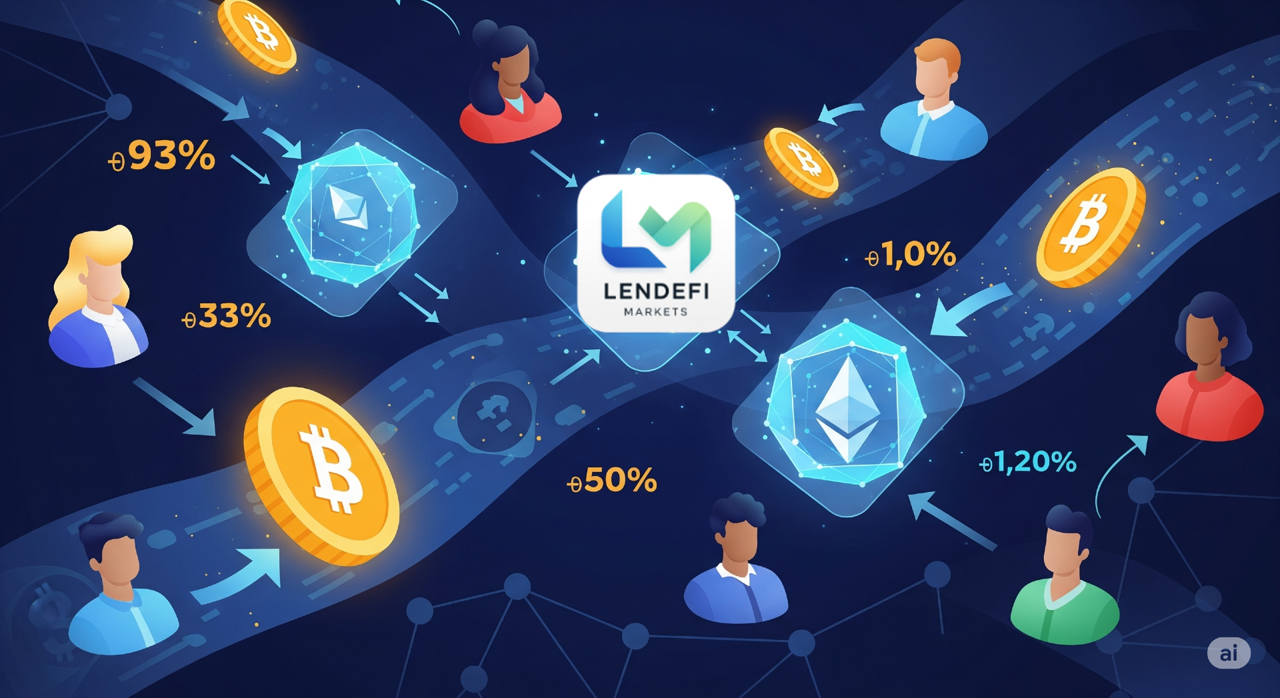
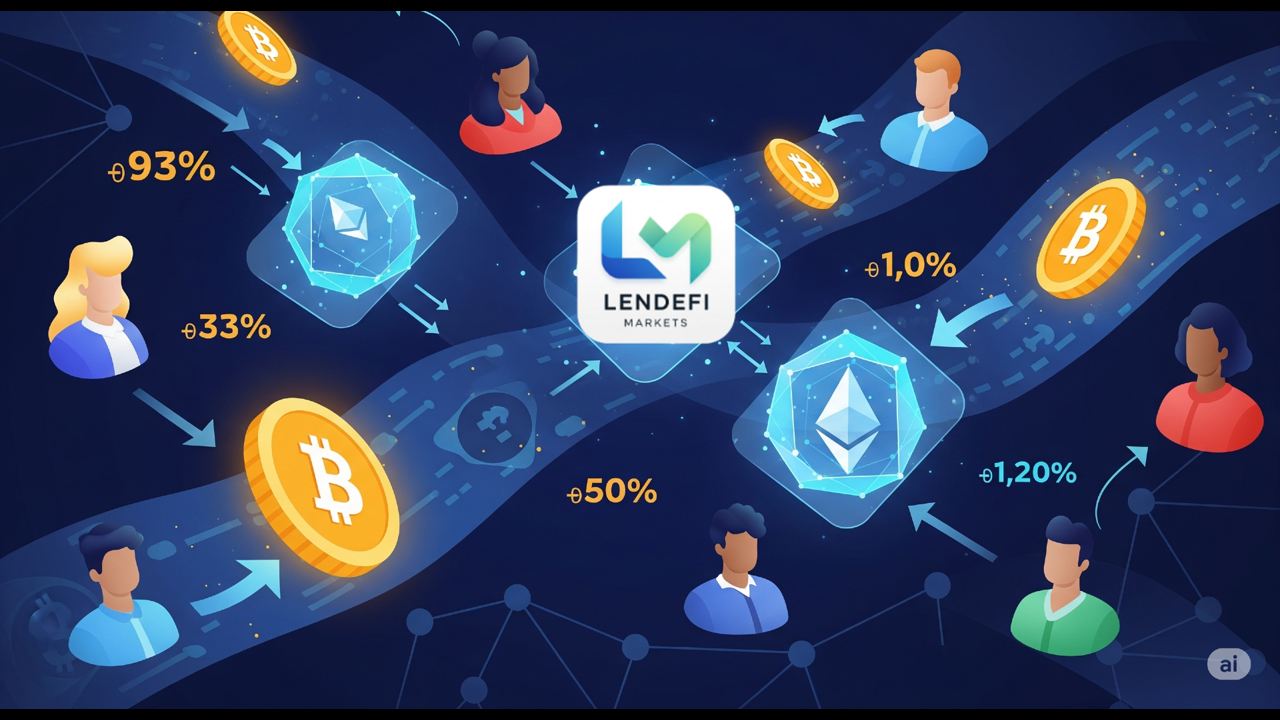
Resize all blog images to 720p (1280x720) and add Robinhood post
- Resized 28 blog images to standard 720p resolution
- Added new Robinhood crypto integration blog post
- Ensured consistent image dimensions across all blog posts

🤖 Generated with [Claude Code](https://claude.ai/code)

diff --git a/src/blog/posts/robinhood.md b/src/blog/posts/robinhood.md
@@ -1,0 +1,198 @@
+---
+title: "The Democratizer: How Vlad Tenev Transformed Wall Street Through a Smartphone Screen"
+date: "2025-06-28"
+excerpt: "From Bulgarian immigrant to billionaire CEO, Vladimir Tenev's journey from Stanford mathematician to Robinhood founder illustrates how technological disruption can democratize entire industries—transforming how millions of Americans access financial markets through zero-commission trading and mobile-first design."
+image: "/assets/images/blog/robinhood.png"
+tags: ["Fintech", "Entrepreneurship", "Democratization", "Trading"]
+author: "Lendefi Research Team"
+---
+
+# The Democratizer: How Vlad Tenev Transformed Wall Street Through a Smartphone Screen
+
+In the winter of 2008, as [Lehman Brothers](https://en.wikipedia.org/wiki/Lehman_Brothers) collapsed and financial markets convulsed in the worst crisis since the Great Depression, two Stanford mathematics graduates watched the unfolding chaos with fascination rather than fear. While most observers saw destruction, Vladimir Tenev and Baiju Bhatt glimpsed opportunity—not in the markets themselves, but in the infrastructure that connected everyday people to those markets.
+
+Thirteen years later, the company they would eventually build, [Robinhood](https://robinhood.com/), would process over $2 trillion in trading volume and serve more than 22 million users, fundamentally reshaping how Americans invest. From a Bulgarian immigrant's son who dismantled his first computer at age five to the CEO who survived a congressional grilling over the [GameStop](https://www.gamestop.com/) trading frenzy, Tenev's journey illustrates how technological disruption combined with populist mission can democratize entire industries—even when that democratization comes with unprecedented controversy and responsibility.
+
+## From Communist Bulgaria to Silicon Valley Dreams
+
+Vladimir Tenev's story begins in [Varna](https://en.wikipedia.org/wiki/Varna), Bulgaria, a coastal city on the Black Sea where he was born on February 13, 1987. His father, a professor of economics, witnessed firsthand the transition as communist rule gave way to democratic reform. When the [Berlin Wall](https://en.wikipedia.org/wiki/Berlin_Wall) fell and Eastern Europe opened to the world, Tenev's parents seized the opportunity for a better life, immigrating to the United States when Vladimir was just five years old.
+
+Both parents found work at the [World Bank](https://www.worldbank.org/) in Washington, D.C., joining the international development community that would expose young Vladimir to global perspectives on economics and finance. Growing up in Northern Virginia, he attended [Thomas Jefferson High School for Science and Technology](https://tjhsst.fcps.edu/), one of America's most prestigious STEM-focused high schools, where future entrepreneurs, scientists, and engineers honed their analytical thinking.
+
+The immigrant experience shaped Tenev's worldview in fundamental ways. Having seen his parents rebuild their lives in a new country, he understood both the barriers that prevent people from accessing opportunities and the transformative power of removing those barriers. This perspective would later manifest in Robinhood's mission to "democratize finance for all"—making investment tools accessible to anyone with a smartphone rather than just those with traditional wealth and connections.
+
+At Thomas Jefferson, Tenev demonstrated the mathematical aptitude that would define his approach to entrepreneurship. Rather than viewing business challenges through pure intuition, he approached problems systematically, using quantitative analysis to identify inefficiencies and design solutions. This methodology would prove essential as he entered the complex world of financial technology.
+
+## Stanford Foundations and the Power of Partnership
+
+In 2005, Tenev arrived at [Stanford University](https://www.stanford.edu/) to study mathematics, joining one of the world's premier breeding grounds for technological innovation. Silicon Valley's entrepreneurial culture permeated campus life, where students regularly left classrooms to found companies that would reshape global industries. It was here that Tenev met Baiju Bhatt, a physics major from Virginia whose father worked at [NASA](https://www.nasa.gov/)'s Langley Research Center.
+
+The friendship that formed between Tenev and Bhatt exemplified the power of complementary skills in entrepreneurship. Tenev brought deep mathematical knowledge and systematic thinking, while Bhatt contributed physics-based problem-solving and design sensibility. Both shared immigrant family backgrounds—Bhatt's parents had immigrated from India—creating common ground around the American dream and the barriers that prevent people from achieving it.
+
+Their academic paths initially diverged after completing master's degrees in mathematics in 2008. Tenev pursued a PhD at [UCLA](https://www.ucla.edu/), diving deeper into mathematical theory, while Bhatt joined the workforce at a trading firm. However, the financial crisis that was unfolding would soon bring them back together with a shared vision of entrepreneurial opportunity.
+
+"It was a very, very interesting time for the industry," Tenev later reflected on those tumultuous months. As traditional financial institutions crumbled and government bailouts sparked public outrage, the two friends recognized that crisis often creates space for innovation. The same technological forces disrupting media, retail, and communications could potentially transform finance—if someone could figure out how to bridge the gap between sophisticated financial infrastructure and consumer accessibility.
+
+## The High-Frequency Trading Laboratory
+
+Convinced by Bhatt that entrepreneurship offered more immediate impact than academic research, Tenev made the difficult decision to drop out of his UCLA PhD program. In 2010, the partners founded their first company, Celeris, focused on high-frequency trading software. The venture provided crucial education in both the technical complexities of financial markets and the realities of building technology companies.
+
+High-frequency trading represented the cutting edge of financial technology, where microseconds could determine profitability and algorithmic sophistication separated winners from losers. Celeris aimed to provide software that could shave precious milliseconds off trade execution times, potentially generating millions in additional profits for institutional clients. The work required deep understanding of market microstructure, computer networking, and algorithmic optimization.
+
+However, Celeris struggled to gain traction in a market dominated by established players with vast resources and regulatory relationships. By January 2011, Tenev and Bhatt had pivoted to a new venture, [Chronos Research](https://en.wikipedia.org/wiki/Chronos_Research), which sold low-latency software to trading firms and banks. This business model proved more viable, generating revenue while teaching the founders about institutional client needs and market infrastructure.
+
+The high-frequency trading experience provided essential preparation for what would come next. Tenev and Bhatt learned how financial markets actually functioned beneath their public interfaces—the complex web of exchanges, market makers, clearinghouses, and regulatory requirements that enable trades to occur. More importantly, they discovered the massive cost disparities between institutional and retail trading, where large firms paid fractions of pennies per share while individual investors faced commissions of $7-10 per trade.
+
+## The Occupy Wall Street Revelation
+
+The revelation that would ultimately inspire Robinhood came not from technical analysis but from social observation. In September 2011, as [Occupy Wall Street](https://en.wikipedia.org/wiki/Occupy_Wall_Street) protesters filled Zuccotti Park demanding economic justice, Tenev and Bhatt watched from their New York offices with growing conviction that technology could address some of the movement's core concerns.
+
+The protesters' grievances centered on financial inequality—the perception that sophisticated tools and preferential treatment were available only to wealthy institutions while ordinary Americans faced barriers to building wealth through investing. The "99% vs. 1%" narrative resonated with Tenev's immigrant experience and Bhatt's engineering sensibility that elegant solutions should be accessible to everyone.
+
+"The public distrust of the financial sector had been growing for some years and in 2011 it boiled over," Tenev later explained. The Occupy movement crystallized their thinking about what they could "build something meaningful and something that empowered consumers." Rather than merely profiting from market inefficiencies, they could eliminate some of those inefficiencies entirely.
+
+The insight was both simple and revolutionary: if technology could make high-frequency trading profitable at fractions of pennies per share, the same technology could make retail trading profitable at zero commission. The key was understanding that retail order flow itself had value that could support a different business model. Instead of charging investors directly, a platform could monetize their trades through [payment for order flow](https://www.investopedia.com/terms/p/paymentoforderflow.asp) arrangements with market makers.
+
+## Building Robinhood: Technology Meets Mission
+
+In 2013, Tenev and Bhatt officially launched Robinhood with an audacious goal: eliminate commission fees on stock trades while making investing as intuitive as using social media. The name deliberately evoked the legendary outlaw who "took from the rich and gave to the poor," reflecting their mission to redistribute access to financial tools rather than wealth itself.
+
+The technical challenges were immense. Building a secure, reliable trading platform required integration with multiple exchanges, clearinghouses, and regulatory systems while maintaining the speed and reliability that users expected from consumer applications. Unlike established brokerages that could afford technological glitches due to high commission revenue, Robinhood's zero-fee model demanded near-perfect execution from day one.
+
+The user interface represented perhaps their most significant innovation. While traditional brokerage platforms resembled complex dashboards designed for professional traders, Robinhood's app felt like a social media platform. Clean design, intuitive gestures, and immediate feedback created an experience that encouraged exploration rather than intimidation. Features like fractional shares meant users could invest as little as $1 in expensive stocks, removing another barrier to market participation.
+
+However, building the platform was only half the challenge. The regulatory approval process required extensive documentation, compliance reviews, and capital requirements that nearly exhausted their resources. For over a year, Robinhood operated as little more than a waitlist, collecting email addresses from potential users while satisfying [FINRA](https://www.finra.org/) and [SEC](https://www.sec.gov/) requirements.
+
+The waitlist itself became a marketing tool, generating anticipation and social proof that traditional brokerages had never achieved. By the time Robinhood launched its mobile app in March 2015, hundreds of thousands of users were ready to begin trading immediately. The pent-up demand validated their thesis that commission fees had indeed prevented millions of Americans from participating in the stock market.
+
+## Explosive Growth and Cultural Impact
+
+Robinhood's launch coincided with several trends that accelerated adoption beyond even optimistic projections. Smartphone penetration reached critical mass just as millennials entered their peak earning years, creating a generation of digitally native potential investors. Low interest rates made traditional savings accounts unattractive while rising stock markets created FOMO among young adults watching friends profit from investments.
+
+The platform's gamification elements—push notifications about market movements, confetti animations celebrating trades, and social features showing popular stocks—tapped into psychological drivers that traditional brokerages had ignored. Critics would later argue these features encouraged excessive trading, but they undeniably made investing feel accessible and engaging to users who had never considered opening brokerage accounts.
+
+User growth exploded from the launch, particularly during market volatility that traditionally drove retail investors away from stocks. The 2016 election, Brexit uncertainty, and various market corrections all drove new account openings as users sought to capitalize on or hedge against political and economic uncertainty. By 2018, Robinhood had attracted over 4 million users and achieved a $6 billion valuation, making both Tenev and Bhatt billionaires on paper.
+
+The cultural impact extended far beyond user numbers. Robinhood's success forced established brokerages to eliminate their own commission fees, saving all retail investors billions of dollars annually. [Charles Schwab](https://www.schwab.com/), [Fidelity](https://www.fidelity.com/), [TD Ameritrade](https://www.tdameritrade.com/), and other major firms scrambled to match Robinhood's pricing while trying to differentiate through service quality and product breadth.
+
+More significantly, Robinhood democratized financial discussions among younger Americans. The platform's social features and mobile-first design encouraged users to share investment ideas, creating organic communities around stock analysis and market commentary. This cultural shift would prove crucial during the events of early 2021.
+
+## The GameStop Crucible: Crisis and Congressional Scrutiny
+
+The defining moment of Tenev's leadership came not during Robinhood's growth phase but during the [GameStop short squeeze](https://en.wikipedia.org/wiki/GameStop_short_squeeze) of January 2021. What began as an investment thesis shared on [Reddit](https://www.reddit.com/)'s r/WallStreetBets forum evolved into a populist movement that pitted retail investors against hedge funds, with Robinhood caught in the middle.
+
+The sequence of events unfolded with unprecedented speed and scale. Retail investors, many using Robinhood, coordinated purchases of heavily shorted stocks like GameStop, [AMC](https://www.amctheatres.com/), and others, driving prices to levels that threatened major hedge funds with billions in losses. [Melvin Capital](https://en.wikipedia.org/wiki/Melvin_Capital), in particular, faced potential bankruptcy due to its GameStop short position.
+
+On January 28, 2021, as GameStop's stock price soared past $400 per share, Robinhood made the controversial decision to halt buying of GameStop and several other volatile stocks. Users could sell their positions but not purchase additional shares, a restriction that immediately drew accusations of market manipulation and conspiracy with Wall Street interests. The decision sparked bipartisan outrage from politicians as diverse as [Alexandria Ocasio-Cortez](https://ocasio-cortez.house.gov/) and [Ted Cruz](https://www.cruz.senate.gov/).
+
+Tenev's initial explanations proved inadequate to calm the furor. His early statements focused on technical requirements from clearinghouses without adequately addressing user concerns about fairness and transparency. Social media erupted with conspiracy theories about collusion between Robinhood and [Citadel Securities](https://www.citadelsecurities.com/), the market maker that handled much of Robinhood's order flow and had invested in Melvin Capital.
+
+The crisis deepened when Robinhood was forced to raise $3.4 billion in emergency funding to meet clearinghouse collateral requirements, revealing the financial stress the platform faced during extreme market volatility. Users felt betrayed by a company that had promised to democratize finance but seemingly prioritized institutional relationships over retail investor interests.
+
+## Congressional Testimony and Leadership Under Fire
+
+On February 18, 2021, Tenev faced his greatest test as CEO when he testified before the [House Committee on Financial Services](https://financialservices.house.gov/) in a hearing entitled "Game Stopped? Who Wins and Loses When Short Sellers, Social Media, and Retail Investors Collide." The virtual hearing, watched by millions, would determine whether Robinhood could survive the reputational damage from the GameStop controversy.
+
+Tenev's testimony attempted to explain the complex technical requirements that forced trading restrictions while maintaining that Robinhood had acted in users' best interests. He revealed that the company faced a $3 billion collateral demand from the [Depository Trust & Clearing Corporation](https://www.dtcc.com/) on the morning of January 28, which was later negotiated down to $1.4 billion after trading restrictions were implemented.
+
+The questioning proved hostile from both Democratic and Republican committee members. Democrats like Chairwoman [Maxine Waters](https://waters.house.gov/) focused on payment for order flow arrangements and potential conflicts of interest, while Republicans emphasized free market principles and criticized any restrictions on retail trading. Tenev struggled with some technical questions and faced criticism for his young company's handling of such a complex crisis.
+
+Perhaps most damaging was the revelation that Robinhood employees may have traded the affected stocks before imposing restrictions, raising questions about insider trading and company culture. The [FBI](https://www.fbi.gov/) and other agencies launched investigations, including executing a search warrant for Tenev's personal cell phone as part of their probe.
+
+Despite the intense scrutiny, Tenev's calm demeanor and technical explanations gradually won some credibility with observers who recognized the genuine operational challenges facing his platform. More importantly, user behavior suggested that most customers blamed the system rather than Robinhood specifically—account openings actually accelerated after the controversy as new users sought to participate in the continuing market volatility.
+
+## IPO Triumph and Ongoing Challenges
+
+Just months after facing congressional scrutiny, Robinhood achieved a major milestone by going public in July 2021. The [IPO](https://www.investopedia.com/terms/i/ipo.asp) priced at $38 per share, valuing the company at $32 billion and raising approximately $2 billion. The offering was notable for reserving 20-35% of shares for Robinhood's own users, the largest retail allocation in IPO history.
+
+The public debut proved rocky, with shares falling over 8% on the first day of trading as investors questioned the company's valuation and long-term prospects. At $38, Robinhood traded at over 35 times revenue, significantly higher than traditional brokerages like Charles Schwab (8x) or [Interactive Brokers](https://www.interactivebrokers.com/) (3x). Critics argued the valuation reflected unsustainable pandemic-era trading activity rather than fundamental business strength.
+
+However, the IPO marked Robinhood's transition from startup to established financial institution, providing capital for expansion and regulatory compliance. The company began international expansion, added [cryptocurrency](https://robinhood.com/crypto/) trading capabilities, and developed additional financial products like [cash management accounts](https://robinhood.com/cash-management/) and [retirement accounts](https://robinhood.com/us/en/about/retirement/).
+
+The post-IPO period brought new challenges as trading volumes normalized from pandemic highs and competitive pressure intensified. Robinhood's revenue declined significantly from 2021 peaks, forcing workforce reductions and strategic refocusing. Tenev acknowledged these difficulties in a company-wide memo, noting that rapid growth had created "duplicate roles and job functions, and more layers and complexity than are optimal."
+
+## Mathematical Superintelligence: The Harmonic Venture
+
+In 2023, even as he continued leading Robinhood through post-pandemic normalization, Tenev launched an entirely separate venture that revealed his long-term intellectual interests. [Harmonic](https://harmonic.fun/), co-founded with Tudor Achim, aims to develop "Mathematical Superintelligence"—AI systems with mathematical reasoning capabilities greater than any human.
+
+The Harmonic project reflects Tenev's belief that mathematics provides a foundation for eliminating AI hallucinations through formal verification. Using the [Lean](https://leanprover.github.io/) programming language, Harmonic's systems can verify the accuracy of mathematical proofs, achieving an 83% success rate on challenging benchmarks. The company's [Aristotle](https://harmonic.fun/aristotle) system represents a significant advancement in formal mathematics AI.
+
+"As artificial intelligence systems continue to grow in scale and become an integral part of our daily lives, it's critical the next generation of models are truthful," Tenev explained. "MSI is based on mathematics, which provides a guaranteed basis for accuracy and therefore eliminates the hallucinations found in other AI systems."
+
+The venture attracted significant investment from [Sequoia Capital](https://www.sequoiacap.com/) and [Index Ventures](https://www.indexventures.com/), validating Tenev's vision that mathematical reasoning could unlock artificial general intelligence. Unlike large language models that reflect internet biases and inaccuracies, mathematical systems can provide verifiable truth through formal proofs.
+
+Harmonic's mission extends beyond pure research to practical applications in software engineering, industrial design, and medical technology—areas where accuracy is paramount. The company represents Tenev's attempt to solve fundamental problems in AI development while maintaining his operational focus on Robinhood's evolution.
+
+## The Wealth Management Evolution
+
+While pursuing mathematical superintelligence, Tenev also drove Robinhood's expansion into comprehensive financial services. In March 2025, the company announced a suite of new products designed to compete with traditional wealth management firms: [Robinhood Strategies](https://robinhood.com/strategies), [Robinhood Banking](https://robinhood.com/banking), and [Robinhood Cortex](https://robinhood.com/cortex).
+
+Robinhood Strategies offers professionally managed portfolios with zero management fees on balances over $100,000 for [Gold](https://robinhood.com/gold/) subscribers—a direct challenge to traditional advisory fees that scale with assets. The service provides institutional-quality portfolio management at retail prices, continuing Robinhood's democratization mission into wealth management.
+
+Robinhood Banking targets high-net-worth individuals with services traditionally reserved for private banks: estate planning, tax advice, and exclusive perks like access to the [Met Gala](https://www.metmuseum.org/about-the-met/press-room/news/2023/met-gala-2023), [Oscars](https://www.oscars.org/), and private jet travel. The 4% annual percentage yield on cash accounts significantly exceeds traditional savings rates, funded by the company's scale and efficiency advantages.
+
+Robinhood Cortex represents the company's entry into AI-powered investment tools, providing real-time market analysis and trade recommendations exclusively for Gold subscribers. Features like Stock Digests and Trade Builder use artificial intelligence to democratize the analytical capabilities previously available only to institutional investors.
+
+These expansions reflect Tenev's long-term vision of Robinhood as a comprehensive financial platform rather than just a trading app. "Our goal is for Robinhood to give you a world-class financial team in your pocket, with cutting-edge tools you can't find elsewhere," he explained. The strategy aims to increase revenue per user while expanding the total addressable market beyond active traders to all consumers seeking financial services.
+
+## Regulatory Evolution and Industry Impact
+
+Throughout Robinhood's growth, Tenev has navigated an increasingly complex regulatory environment while advocating for modernized financial oversight. The company has faced various fines and settlements, including a $57 million [FINRA](https://www.finra.org/) penalty and multiple state regulatory actions, but has generally maintained good relationships with regulators through transparency and compliance investments.
+
+The payment for order flow model that enables Robinhood's zero-commission trading has faced particular scrutiny from regulators concerned about potential conflicts of interest. However, academic research has generally validated that retail investors receive better execution through PFOF arrangements than through traditional commission models, supporting Robinhood's defense of the practice.
+
+Tenev has argued that regulatory frameworks should focus on outcomes rather than business models, emphasizing that Robinhood's innovations have saved retail investors billions in commission fees while improving market access. The company's transparent pricing and execution quality metrics demonstrate commitment to fair treatment despite the complex business model.
+
+The broader industry impact of Robinhood's success extends far beyond commission elimination. The platform's mobile-first design, social features, and democratized access have influenced virtually every major financial institution's digital strategy. Traditional brokerages have invested billions in user experience improvements while fintech startups pursue various market segments using similar approaches.
+
+## Current Challenges and Future Opportunities
+
+As of 2025, Robinhood faces the challenge of maintaining growth momentum while expanding beyond its core trading platform. User engagement has normalized from pandemic peaks as market volatility declined and alternative entertainment options resumed. The company must demonstrate that its expanded financial services can generate sustainable revenue growth independent of trading activity cycles.
+
+Competition has intensified from both traditional institutions and fintech startups. [SoFi](https://www.sofi.com/), [Webull](https://www.webull.com/), and others offer similar commission-free trading while [Goldman Sachs](https://www.goldmansachs.com/)' Marcus, [JPMorgan Chase](https://www.jpmorganchase.com/)'s digital initiatives, and other major banks compete for comprehensive financial relationships.
+
+However, Robinhood's advantages remain significant: a loyal user base, superior mobile experience, innovative product development, and strong brand recognition among younger demographics. The company's expansion into retirement accounts, wealth management, and AI-powered tools positions it well for long-term growth as its user base ages and accumulates wealth.
+
+The international expansion opportunity remains largely untapped, with regulatory approvals in key markets potentially unlocking hundreds of millions of additional users. Cryptocurrency integration provides another growth vector as digital assets become more mainstream and integrated with traditional portfolios.
+
+## The Democratization Legacy
+
+Tenev's impact on American finance extends far beyond Robinhood's specific business success. The company's mission to "democratize finance for all" has fundamentally altered how Americans think about investing, making stock ownership accessible to demographics that were previously excluded by high fees and complex interfaces.
+
+The numbers tell a remarkable story: Robinhood estimates that nearly half of all new US brokerage accounts over the past five years have been Robinhood accounts. The platform has introduced millions of first-time investors to the stock market, many of whom have subsequently diversified across multiple platforms and asset classes.
+
+More broadly, Robinhood's success has forced the entire financial industry to reconsider assumptions about pricing, user experience, and customer relationships. The elimination of commission fees alone has saved retail investors billions of dollars annually, while improved mobile interfaces have made financial information more accessible than ever before.
+
+Critics rightfully point out the risks of gamification and the potential for inexperienced investors to make poor decisions with easy market access. The platform's role in various trading frenzies, from GameStop to cryptocurrency bubbles, demonstrates that democratization can enable both wealth building and wealth destruction.
+
+However, Tenev argues that education and transparency, rather than gatekeeping, provide better protection for retail investors. Robinhood's extensive educational content, risk warnings, and transparent pricing give users the information needed to make informed decisions while preserving their freedom to make those decisions independently.
+
+## From Bulgarian Immigrant to Financial Revolutionary
+
+Standing in Robinhood's [Menlo Park](https://www.menlopark.org/) headquarters, surrounded by screens displaying real-time market data and user activity, Tenev embodies the American dream's evolution in the digital age. The five-year-old who accompanied his parents to a new country has built technology that provides financial opportunity to millions of Americans who previously lacked access to wealth-building tools.
+
+His journey from mathematician to entrepreneur to public company CEO illustrates how technical expertise combined with social mission can create lasting change. The challenges he has faced—from regulatory scrutiny to congressional testimony to user backlash—demonstrate that democratization efforts often encounter resistance from established interests and unintended consequences.
+
+The dual focus on Robinhood's expansion and Harmonic's AI research reveals Tenev's long-term thinking about technology's role in society. While Robinhood democratizes existing financial tools, Harmonic aims to create entirely new capabilities through mathematical superintelligence. Both ventures reflect his belief that sophisticated technology should serve broad human benefit rather than narrow elite interests.
+
+Perhaps most significantly, Tenev's story shows how immigrant perspectives can drive innovation that benefits all Americans. His outsider's view of financial markets, combined with mathematical training and Silicon Valley entrepreneurship, enabled him to identify inefficiencies that insiders had accepted as permanent fixtures.
+
+As financial markets continue evolving through technological disruption, regulatory change, and generational shifts, the infrastructure Tenev has built provides a foundation for continued democratization. From commission-free trading to AI-powered analysis to comprehensive wealth management, Robinhood's platform enables millions of Americans to participate in wealth creation that was previously reserved for the privileged few.
+
+The boy who crossed the Atlantic with his family has created technology that helps millions of families build their own American dreams through patient investing and financial education. In an era when inequality and opportunity access dominate political discourse, Tenev's work demonstrates how technological innovation can expand economic participation while generating sustainable business returns.
+
+Whether judged by user growth, industry transformation, or wealth creation, Vlad Tenev has already left an indelible mark on American finance. As both Robinhood and Harmonic continue evolving, his influence on how ordinary people access extraordinary opportunities will likely extend far beyond his current achievements. The democratization revolution he started with a smartphone app may ultimately reshape not just how Americans invest, but how they think about their financial futures and their power to create wealth through technology and determination.
+
+---
+
+**Additional Resources:**
+- [Robinhood Official Website](https://robinhood.com/)
+- [Robinhood Investor Relations](https://investors.robinhood.com/)
+- [Robinhood Newsroom](https://newsroom.aboutrobinhood.com/)
+- [Robinhood Help Center](https://robinhood.com/support/)
+- [Harmonic AI Website](https://harmonic.fun/)
+- [Stanford University](https://www.stanford.edu/)
+- [UCLA Mathematics Department](https://www.math.ucla.edu/)
+- [Thomas Jefferson High School](https://tjhsst.fcps.edu/)
+- [House Committee on Financial Services](https://financialservices.house.gov/)
+- [SEC Investor Information](https://www.sec.gov/)
